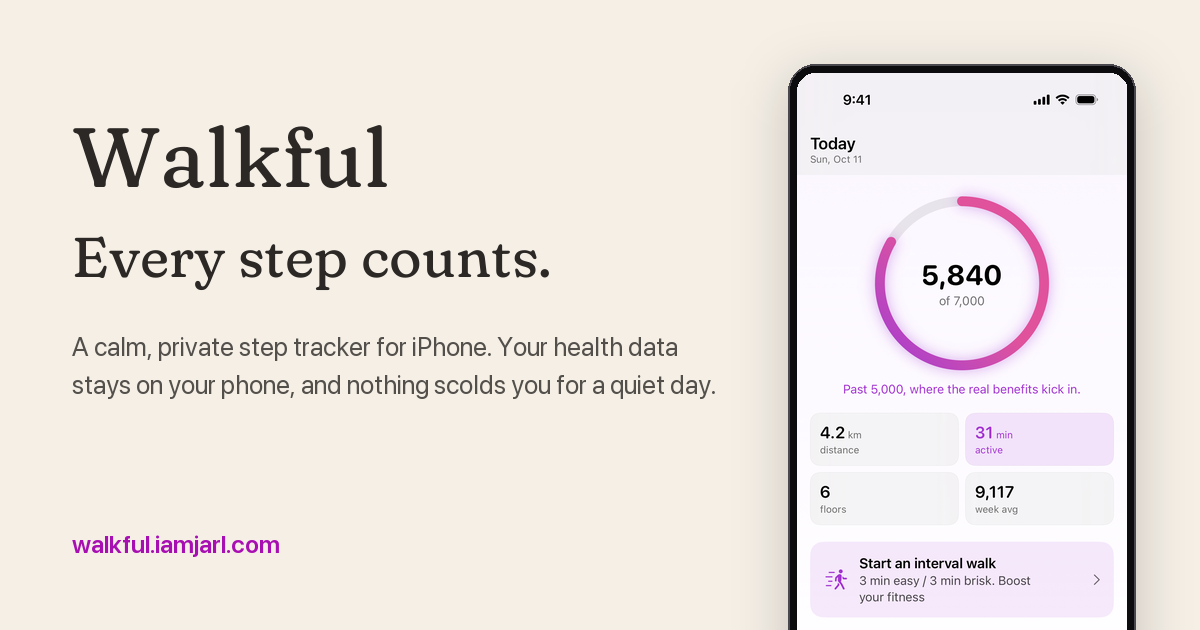
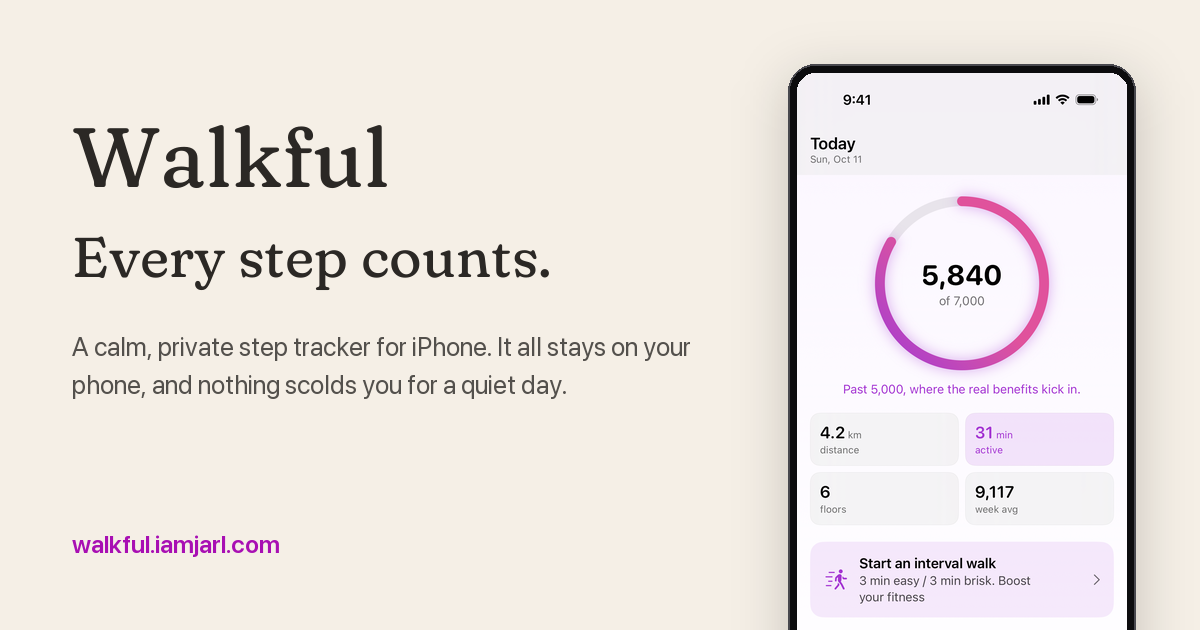
fix(telemetry): Other Diagnostic Data, the built DSN checked, the site apart (#222)
- PrivacyInfo.xcprivacy also declares Other Diagnostic Data (MetricKit and
  hangs), as Sentry's own manifest does and every portfolio app with Sentry
  does. The label table and docs say four types.
- ci_post_xcodebuild.sh reads SentryDSN from the archived app's Info.plist
  and fails the build unless it is a DSN. Checked against a Release build
  whose DSN went through ci_post_clone.sh's $(SLASH) form.
- The site changes move to their own PR (#224), merged on release day, since
  the site deploys on every push to main and the live app sends nothing yet.
  README no longer names the label before it changes.

Changed region(s): [[0.0617, 0.6032, 0.5858, 0.6333], [0.4008, 0.5429, 0.5858, 0.573]]

diff --git a/website/da/index.html b/website/da/index.html
@@ -6,7 +6,7 @@
 <!-- Smart App Banner, from dist/store/walkful.head.html -->
 <meta name="apple-itunes-app" content="app-id=6781303837" />
 <title>Walkful: en rolig, privat skridttæller og gå-app til iPhone</title>
-<meta name="description" content="Walkful viser, hvad dine gåture gør for dit helbred, roligt og helt på din iPhone. Omkring 7.000 skridt, ikke myten om de 10.000. Ingen konti, ingen reklamer, og dine sundhedsdata bliver på telefonen. Gratis, og Pro er én betaling." />
+<meta name="description" content="Walkful viser, hvad dine gåture gør for dit helbred, roligt og helt på din iPhone. Omkring 7.000 skridt, ikke myten om de 10.000. Ingen konti, ingen reklamer, Data indsamles ikke. Gratis, og Pro er én betaling." />
 <link rel="canonical" href="https://walkful.iamjarl.com/da/" />
 <link rel="alternate" hreflang="en" href="https://walkful.iamjarl.com/" />
 <link rel="alternate" hreflang="da" href="https://walkful.iamjarl.com/da/" />
@@ -16,7 +16,7 @@
 <meta property="og:type" content="website" />
 <meta property="og:site_name" content="Walkful" />
 <meta property="og:title" content="Walkful: en rolig, privat skridttæller til iPhone" />
-<meta property="og:description" content="Se, hvad dine gåture gør for dig, roligt og helt på din iPhone. Omkring 7.000 skridt, ikke myten om de 10.000. Ingen konti, ingen reklamer, og dine sundhedsdata bliver på telefonen." />
+<meta property="og:description" content="Se, hvad dine gåture gør for dig, roligt og helt på din iPhone. Omkring 7.000 skridt, ikke myten om de 10.000. Ingen konti, ingen reklamer, Data indsamles ikke." />
 <meta property="og:url" content="https://walkful.iamjarl.com/da/" />
 <meta property="og:image" content="https://walkful.iamjarl.com/og-image.png" />
 <meta property="og:image:width" content="1200" />
@@ -26,7 +26,7 @@
 <meta property="og:locale:alternate" content="en_US" />
 <meta name="twitter:card" content="summary_large_image" />
 <meta name="twitter:title" content="Walkful: en rolig, privat skridttæller til iPhone" />
-<meta name="twitter:description" content="Se, hvad dine gåture gør for dig, roligt og helt på din iPhone. Ingen konti, ingen reklamer, og dine sundhedsdata bliver på telefonen." />
+<meta name="twitter:description" content="Se, hvad dine gåture gør for dig, roligt og helt på din iPhone. Ingen konti, ingen reklamer, Data indsamles ikke." />
 <meta name="twitter:image" content="https://walkful.iamjarl.com/og-image.png" />
 <link rel="icon" type="image/png" sizes="32x32" href="/favicon-32.png" />
 <link rel="apple-touch-icon" href="/apple-touch-icon.png" />
@@ -57,7 +57,7 @@
   "name": "Walkful",
   "applicationCategory": "HealthApplication",
   "operatingSystem": "iOS 18 eller nyere",
-  "description": "En rolig, privat skridttæller og gå-app til iPhone. Den læser dine skridt fra Apple Health og viser, hvad de betyder for dit helbred, bygget på omkring 7.000 skridt om dagen frem for myten om de 10.000. Sundhedsdata bliver på din iPhone: ingen konti, ingen reklamer. Gratis at hente, og Walkful Pro er et engangskøb.",
+  "description": "En rolig, privat skridttæller og gå-app til iPhone. Den læser dine skridt fra Apple Health og viser, hvad de betyder for dit helbred, bygget på omkring 7.000 skridt om dagen frem for myten om de 10.000. Alt bliver på din iPhone: ingen konti, ingen servere, ingen reklamer. Gratis at hente, og Walkful Pro er et engangskøb.",
   "url": "https://walkful.iamjarl.com/da/",
   "downloadUrl": "https://apps.apple.com/app/id6781303837",
   "inLanguage": "da",
@@ -98,7 +98,7 @@
     { "@type": "Question", "name": "Kan jeg dele Walkful Pro med min familie?",
       "acceptedAnswer": { "@type": "Answer", "text": "Ja. Walkful Pro har Familiedeling slået til, så ét køb dækker alle i din familiedelingsgruppe. Hver af dem låser Pro op på deres egen iPhone med deres egen Apple-konto, og deres skridt bliver på deres egen telefon, ligesom dine." } },
     { "@type": "Question", "name": "Indsamler eller sælger Walkful mine data?",
-      "acceptedAnswer": { "@type": "Answer", "text": "Nej. Dine sundhedsdata bliver på din iPhone, og Walkful sælger ingenting. For at opdage, når en version går i stykker, sender appen anonyme crashrapporter og to optællinger af brug, uden ID og uden noget fra Apple Health. Walkful har ingen konti, og dens privatlivsmærkat i App Store siger Data, der ikke er knyttet til dig. Dette website tæller besøg uden cookies, og det er adskilt fra appen." } },
+      "acceptedAnswer": { "@type": "Answer", "text": "Nej. Dine sundhedsdata bliver på din iPhone. Walkful har ingen konti, ingen servere og ingen sporing fra tredjeparter, og dens privatlivsmærkat i App Store er Data indsamles ikke. Dette website tæller besøg uden cookies, og det er adskilt fra appen." } },
     { "@type": "Question", "name": "Hvordan virker de blide påmindelser?",
       "acceptedAnswer": { "@type": "Answer", "text": "Slår du dem til, lader iOS af og til Walkful kigge på dine seneste skridt i baggrunden. Har du siddet stille et stykke tid inden for de timer, du har valgt, og er du ikke blevet mindet om det for nylig, får du én blid notifikation. Det er iOS, der bestemmer, hvornår de tjek kører, så en påmindelse kan komme sent eller slet ikke, og der kommer højst et par stykker om dagen." } }
   ]
@@ -125,7 +125,7 @@
     <div class="ij-container ij-hero__inner">
       <div class="ij-hero__text">
         <h1 class="ij-display">Hvert skridt tæller.</h1>
-        <p class="ij-lede">En rolig, privat måde at se, hvad dine gåture gør for dig. Dine sundhedsdata bliver på din iPhone, og intet skælder dig ud for en stille dag.</p>
+        <p class="ij-lede">En rolig, privat måde at se, hvad dine gåture gør for dig. Det hele bliver på din iPhone, og intet skælder dig ud for en stille dag.</p>
         <!-- dist/store/walkful.da.black.html (v1.32.2, generated, do not edit) -->
         <div class="ij-store" data-ij-store="walkful" data-ij-store-locale="da">
           <a class="ij-store-badge" href="https://apps.apple.com/app/id6781303837?pt=128512007&amp;ct=site&amp;mt=8" data-umami-event="store-click" data-umami-event-store="app-store" data-umami-event-placement="hero" data-umami-event-locale="da">
@@ -237,9 +237,9 @@
     <div class="ij-container ij-stack">
       <h2 class="ij-headline" id="privacy-h">Dit eget, og betalt én gang.</h2>
       <div class="ij-assurances">
-        <div class="ij-assurance"><h3 class="ij-title">Dine sundhedsdata bliver på din iPhone</h3><p>Walkful læser dine skridt fra Apple Health og regner det hele ud på telefonen. Der er ingen konti. Kun anonyme crashrapporter og to optællinger af brug bliver sendt, uden ID og uden noget fra Apple Health. <a href="/privacy.html" hreflang="en">Privatlivspolitikken (på engelsk)</a> har detaljerne.</p></div>
+        <div class="ij-assurance"><h3 class="ij-title">Intet forlader din iPhone</h3><p>Walkful læser dine skridt fra Apple Health og regner det hele ud på telefonen. Der er ingen konti og ingen servere at sende noget til. <a href="/privacy.html" hreflang="en">Privatlivspolitikken (på engelsk)</a> har detaljerne.</p></div>
         <div class="ij-assurance"><h3 class="ij-title">Gratis at prøve. Pro er én betaling</h3><p>Den gratis app dækker din dag, din uge, widgets og påmindelser. Pro tilføjer indsigter, intervalgang-coachen og CSV-eksport for én betaling, og Familiedeling dækker hele husstanden.</p></div>
-        <div class="ij-assurance ij-assurance--label"><h3 class="ij-title">Data, der ikke er knyttet til dig</h3><p>App Stores privatlivsmærkat for Walkful: anonym diagnostik og optællinger af brug, aldrig knyttet til dig eller brugt til at spore dig.</p></div>
+        <div class="ij-assurance ij-assurance--label"><h3 class="ij-title">Data indsamles ikke</h3><p>App Stores privatlivsmærkat for Walkful, som Apple viser den.</p></div>
       </div>
     </div>
   </section>
@@ -248,7 +248,7 @@
   <section class="ij-section" aria-label="En note fra udvikleren">
     <div class="ij-container">
       <div class="ij-maker">
-        <p>Jeg byggede Walkful, fordi de skridttællere, jeg prøvede, ville have mine data, et abonnement eller min dårlige samvittighed over en glemt dag. Jeg ville have noget, der viste, hvad mine gåture gjorde for mig, og så lod mig være i fred. Så Walkful læser Apple Health på din iPhone, beholder dine sundhedsdata dér og beder om én betaling, hvis du vil have mere. En stille dag er helt i orden.</p>
+        <p>Jeg byggede Walkful, fordi de skridttællere, jeg prøvede, ville have mine data, et abonnement eller min dårlige samvittighed over en glemt dag. Jeg ville have noget, der viste, hvad mine gåture gjorde for mig, og så lod mig være i fred. Så Walkful læser Apple Health på din iPhone, beholder det hele dér og beder om én betaling, hvis du vil have mere. En stille dag er helt i orden.</p>
         <p class="ij-maker__sign">Jarl</p>
       </div>
     </div>
@@ -271,7 +271,7 @@
         <details><summary>Kan jeg dele Walkful Pro med min familie?</summary>
           <p>Ja. Walkful Pro har Familiedeling slået til, så ét køb dækker alle i din familiedelingsgruppe. Hver af dem låser Pro op på deres egen iPhone med deres egen Apple-konto, og deres skridt bliver på deres egen telefon, ligesom dine.</p></details>
         <details><summary>Indsamler eller sælger Walkful mine data?</summary>
-          <p>Nej. Dine sundhedsdata bliver på din iPhone, og Walkful sælger ingenting. For at opdage, når en version går i stykker, sender appen anonyme crashrapporter og to optællinger af brug, uden ID og uden noget fra Apple Health. Walkful har ingen konti, og dens privatlivsmærkat i App Store siger Data, der ikke er knyttet til dig. Dette website tæller besøg uden cookies, og det er adskilt fra appen.</p></details>
+          <p>Nej. Dine sundhedsdata bliver på din iPhone. Walkful har ingen konti, ingen servere og ingen sporing fra tredjeparter, og dens privatlivsmærkat i App Store er Data indsamles ikke. Dette website tæller besøg uden cookies, og det er adskilt fra appen.</p></details>
         <details><summary>Hvordan virker de blide påmindelser?</summary>
           <p>Slår du dem til, lader iOS af og til Walkful kigge på dine seneste skridt i baggrunden. Har du siddet stille et stykke tid inden for de timer, du har valgt, og er du ikke blevet mindet om det for nylig, får du én blid notifikation. Det er iOS, der bestemmer, hvornår de tjek kører, så en påmindelse kan komme sent eller slet ikke, og der kommer højst et par stykker om dagen.</p></details>
       </div>

diff --git a/website/index.html b/website/index.html
@@ -6,7 +6,7 @@
 <!-- Smart App Banner, from dist/store/walkful.head.html -->
 <meta name="apple-itunes-app" content="app-id=6781303837" />
 <title>Walkful: a calm, private step &amp; walking tracker for iPhone</title>
-<meta name="description" content="Walkful shows what your walking does for your health, calmly and entirely on your iPhone. About 7,000 steps, not the 10,000 myth. No accounts, no ads, and your health data stays on the phone. Free, with Pro as one payment." />
+<meta name="description" content="Walkful shows what your walking does for your health, calmly and entirely on your iPhone. About 7,000 steps, not the 10,000 myth. No accounts, no ads, Data Not Collected. Free, with Pro as one payment." />
 <link rel="canonical" href="https://walkful.iamjarl.com/" />
 <link rel="alternate" hreflang="en" href="https://walkful.iamjarl.com/" />
 <link rel="alternate" hreflang="da" href="https://walkful.iamjarl.com/da/" />
@@ -16,7 +16,7 @@
 <meta property="og:type" content="website" />
 <meta property="og:site_name" content="Walkful" />
 <meta property="og:title" content="Walkful: a calm, private step &amp; walking tracker for iPhone" />
-<meta property="og:description" content="See what your walking does for you, calmly and entirely on your iPhone. About 7,000 steps, not the 10,000 myth. No accounts, no ads, and your health data stays on the phone." />
+<meta property="og:description" content="See what your walking does for you, calmly and entirely on your iPhone. About 7,000 steps, not the 10,000 myth. No accounts, no ads, Data Not Collected." />
 <meta property="og:url" content="https://walkful.iamjarl.com/" />
 <meta property="og:image" content="https://walkful.iamjarl.com/og-image.png" />
 <meta property="og:image:width" content="1200" />
@@ -26,7 +26,7 @@
 <meta property="og:locale:alternate" content="da_DK" />
 <meta name="twitter:card" content="summary_large_image" />
 <meta name="twitter:title" content="Walkful: a calm, private step &amp; walking tracker" />
-<meta name="twitter:description" content="See what your walking does for you, calmly and entirely on your iPhone. No accounts, no ads, and your health data stays on the phone." />
+<meta name="twitter:description" content="See what your walking does for you, calmly and entirely on your iPhone. No accounts, no ads, Data Not Collected." />
 <meta name="twitter:image" content="https://walkful.iamjarl.com/og-image.png" />
 <link rel="icon" type="image/png" sizes="32x32" href="/favicon-32.png" />
 <link rel="apple-touch-icon" href="/apple-touch-icon.png" />
@@ -57,7 +57,7 @@
   "name": "Walkful",
   "applicationCategory": "HealthApplication",
   "operatingSystem": "iOS 18 or later",
-  "description": "A calm, private step and walking tracker for iPhone. It reads your steps from Apple Health and shows what they mean for your health, built around about 7,000 steps a day rather than the 10,000 myth. Health data stays on the iPhone: no accounts, no ads. Free to download, with Walkful Pro as a one-time purchase.",
+  "description": "A calm, private step and walking tracker for iPhone. It reads your steps from Apple Health and shows what they mean for your health, built around about 7,000 steps a day rather than the 10,000 myth. Everything stays on the iPhone: no accounts, no servers, no ads. Free to download, with Walkful Pro as a one-time purchase.",
   "url": "https://walkful.iamjarl.com/",
   "downloadUrl": "https://apps.apple.com/app/id6781303837",
   "inLanguage": ["en", "da"],
@@ -76,7 +76,7 @@
     "Walkful Pro: a guided interval-walking coach on iPhone",
     "Walkful Pro: CSV export of your step history",
     "English and Danish",
-    "Health data stays on the iPhone; only anonymous crash reports and two usage counts are sent"
+    "Everything stays on the iPhone"
   ],
   "publisher": { "@id": "https://iamjarl.com/#org" }
 }
@@ -108,7 +108,7 @@
     { "@type": "Question", "name": "Can I share Walkful Pro with my family?",
       "acceptedAnswer": { "@type": "Answer", "text": "Yes. Walkful Pro has Family Sharing turned on, so one purchase covers everyone in your Family Sharing group. Each of them unlocks Pro on their own iPhone with their own Apple Account, and their steps stay on their own phone, just like yours." } },
     { "@type": "Question", "name": "Does Walkful collect or sell my data?",
-      "acceptedAnswer": { "@type": "Answer", "text": "No. Your health data stays on your iPhone, and Walkful sells nothing. To learn when a release breaks, the app sends anonymous crash reports and two usage counts, with no ID and nothing from Apple Health. Walkful has no accounts, and its App Store privacy label says Data Not Linked to You. This website counts visits without cookies, which is separate from the app." } },
+      "acceptedAnswer": { "@type": "Answer", "text": "No. Your health data stays on your iPhone. Walkful has no accounts, no servers and no third-party tracking, and its App Store privacy label is Data Not Collected. This website counts visits without cookies, which is separate from the app." } },
     { "@type": "Question", "name": "How do the gentle reminders work?",
       "acceptedAnswer": { "@type": "Answer", "text": "If you turn them on, iOS lets Walkful look at your recent steps now and then in the background. When you have been still for a while inside the hours you chose, and it has not reminded you lately, you get one gentle notification. iOS decides when those checks run, so a reminder can come late or not at all, and there are at most a couple a day." } }
   ]
@@ -135,7 +135,7 @@
     <div class="ij-container ij-hero__inner">
       <div class="ij-hero__text">
         <h1 class="ij-display">Every step counts.</h1>
-        <p class="ij-lede">A calm, private way to see what your walking does for you. Your health data stays on your iPhone, and nothing scolds you for a quiet day.</p>
+        <p class="ij-lede">A calm, private way to see what your walking does for you. It all stays on your iPhone, and nothing scolds you for a quiet day.</p>
         <!-- dist/store/walkful.en.black.html (v1.32.2, generated, do not edit) -->
         <div class="ij-store" data-ij-store="walkful" data-ij-store-locale="en">
           <a class="ij-store-badge" href="https://apps.apple.com/app/id6781303837?pt=128512007&amp;ct=site&amp;mt=8" data-umami-event="store-click" data-umami-event-store="app-store" data-umami-event-placement="hero" data-umami-event-locale="en">
@@ -247,9 +247,9 @@
     <div class="ij-container ij-stack">
       <h2 class="ij-headline" id="privacy-h">Yours, and paid for once.</h2>
       <div class="ij-assurances">
-        <div class="ij-assurance"><h3 class="ij-title">Your health data stays on your iPhone</h3><p>Walkful reads your steps from Apple Health and works everything out on the phone. There are no accounts. Only anonymous crash reports and two usage counts are sent, with no ID and nothing from Apple Health. <a href="/privacy.html">The privacy policy</a> has the details.</p></div>
+        <div class="ij-assurance"><h3 class="ij-title">Nothing leaves your iPhone</h3><p>Walkful reads your steps from Apple Health and works everything out on the phone. There are no accounts and no servers to send anything to. <a href="/privacy.html">The privacy policy</a> has the details.</p></div>
         <div class="ij-assurance"><h3 class="ij-title">Free to try. Pro is one payment</h3><p>The free app covers your day, your week, the widgets and the reminders. Pro adds insights, the interval coach and CSV export for one payment, and Family Sharing covers your household.</p></div>
-        <div class="ij-assurance ij-assurance--label"><h3 class="ij-title">Data Not Linked to You</h3><p>The App Store's privacy label for Walkful: anonymous diagnostics and usage counts, never linked to you or used to track you.</p></div>
+        <div class="ij-assurance ij-assurance--label"><h3 class="ij-title">Data Not Collected</h3><p>The App Store's privacy label for Walkful, as Apple shows it.</p></div>
       </div>
     </div>
   </section>
@@ -258,7 +258,7 @@
   <section class="ij-section" aria-label="A note from the maker">
     <div class="ij-container">
       <div class="ij-maker">
-        <p>I built Walkful because the step trackers I tried wanted my data, a subscription, or my guilt over a missed day. I wanted something that showed what my walking was doing for me and then left me alone. So Walkful reads Apple Health on your iPhone, keeps your health data there, and asks for one payment if you want more. A quiet day is fine.</p>
+        <p>I built Walkful because the step trackers I tried wanted my data, a subscription, or my guilt over a missed day. I wanted something that showed what my walking was doing for me and then left me alone. So Walkful reads Apple Health on your iPhone, keeps everything there, and asks for one payment if you want more. A quiet day is fine.</p>
         <p class="ij-maker__sign">Jarl</p>
       </div>
     </div>
@@ -281,7 +281,7 @@
         <details><summary>Can I share Walkful Pro with my family?</summary>
           <p>Yes. Walkful Pro has Family Sharing turned on, so one purchase covers everyone in your Family Sharing group. Each of them unlocks Pro on their own iPhone with their own Apple Account, and their steps stay on their own phone, just like yours.</p></details>
         <details><summary>Does Walkful collect or sell my data?</summary>
-          <p>No. Your health data stays on your iPhone, and Walkful sells nothing. To learn when a release breaks, the app sends anonymous crash reports and two usage counts, with no ID and nothing from Apple Health. Walkful has no accounts, and its App Store privacy label says Data Not Linked to You. This website counts visits without cookies, which is separate from the app.</p></details>
+          <p>No. Your health data stays on your iPhone. Walkful has no accounts, no servers and no third-party tracking, and its App Store privacy label is Data Not Collected. This website counts visits without cookies, which is separate from the app.</p></details>
         <details><summary>How do the gentle reminders work?</summary>
           <p>If you turn them on, iOS lets Walkful look at your recent steps now and then in the background. When you have been still for a while inside the hours you chose, and it has not reminded you lately, you get one gentle notification. iOS decides when those checks run, so a reminder can come late or not at all, and there are at most a couple a day.</p></details>
       </div>

diff --git a/website/privacy.html b/website/privacy.html
@@ -5,7 +5,7 @@
 <meta name="viewport" content="width=device-width, initial-scale=1" />
 <meta name="apple-itunes-app" content="app-id=6781303837" />
 <title>Privacy Policy · Walkful</title>
-<meta name="description" content="Walkful's privacy policy. Your health data never leaves your iPhone. The app sends anonymous crash reports and two usage counts, with no ID and no tracking." />
+<meta name="description" content="Walkful's privacy policy. Walkful processes all data on your device and collects nothing. No accounts, no servers, no tracking, no data sharing." />
 <link rel="canonical" href="https://walkful.iamjarl.com/privacy.html" />
 <link rel="icon" type="image/png" sizes="32x32" href="/favicon-32.png" />
 <link rel="apple-touch-icon" href="/apple-touch-icon.png" />
@@ -20,7 +20,7 @@
 <meta name="theme-color" content="#F5EFE6" />
 <meta property="og:type" content="article" />
 <meta property="og:title" content="Privacy Policy · Walkful" />
-<meta property="og:description" content="Your health data never leaves your iPhone. Walkful sends only anonymous crash reports and two usage counts." />
+<meta property="og:description" content="Walkful collects nothing. All data stays on your device." />
 <meta property="og:url" content="https://walkful.iamjarl.com/privacy.html" />
 <meta property="og:image" content="https://walkful.iamjarl.com/og-image.png" />
 <meta property="og:image:width" content="1200" />
@@ -57,30 +57,27 @@
 <div class="wrap">
   <a class="logo" href="/">Walkful</a>
   <h1>Privacy Policy</h1>
-  <p class="muted">Last updated: November 2026</p>
+  <p class="muted">Last updated: 18 June 2026</p>
 
-  <p class="badge">Summary: your health data never leaves your iPhone. Walkful sends anonymous crash reports and two usage counts, with no ID.</p>
+  <p class="badge">Summary: Walkful collects nothing. All data stays on your device.</p>
 
   <h2>The short version</h2>
-  <p>Walkful has no user accounts and no advertising. Your health and activity data is read from Apple Health and processed entirely on your iPhone. It is never sent to us or anyone else. To learn when a release breaks, the app sends anonymous crash and performance reports, and counts how often two things happen, to Sentry. None of it carries an ID, and none of it comes from Apple Health.</p>
+  <p>Walkful is private by design. It has no servers, no user accounts, and no third-party analytics or advertising SDKs. Your health and activity data is read from Apple Health, processed entirely on your iPhone, and is never transmitted to us or anyone else. Walkful's App Store privacy label is therefore "Data Not Collected".</p>
 
   <h2>Health data</h2>
-  <p>With your explicit permission, Walkful reads activity data from Apple Health (such as steps, walking distance, flights climbed, active minutes and resting heart rate) to show your progress and insights. This data is used only on your device. It is never sent anywhere, never put in a crash report or a count, never shared and never sold. Walkful does not write any data back to Apple Health. You can revoke access at any time in the iOS Health app or Settings.</p>
+  <p>With your explicit permission, Walkful reads activity data from Apple Health (such as steps, walking distance, flights climbed, active minutes and resting heart rate) to display your progress and insights. This data is used only on your device and is never stored on a server, shared, or sold. Walkful does not write any data back to Apple Health. You can revoke access at any time in the iOS Health app or Settings.</p>
 
-  <h2>What the app sends</h2>
-  <p><strong>Crash and performance reports.</strong> When the app crashes or freezes, it sends a report to Sentry, a crash reporting service. A report holds the technical details of the fault and coarse facts about the phone: the app version, iOS version, device model and language. Apple's MetricKit diagnostics, such as hangs and disk writes, go the same way.</p>
-  <p><strong>Two usage counts.</strong> The app counts when one of its main screens is opened (Today, Insights, Settings, the interval coach or Walkful Pro) and when you turn on move reminders. A count says only that it happened, with the same coarse facts.</p>
-  <p><strong>What is never sent:</strong> anything from Apple Health, your goal, your settings, your name or anything you type, a screenshot, or any ID. Every install reports as the same anonymous user, so nothing ties a report to you or to your phone, and Walkful keeps nothing on your phone just to measure. Sentry stores no IP addresses for Walkful.</p>
-  <p>In the App Store this is shown as Diagnostics (crash data, performance data) and Usage Data (product interaction), all not linked to you and not used for tracking.</p>
+  <h2>Data we collect</h2>
+  <p>None. Walkful does not collect personal data, does not track you across apps or websites, and contains no advertising. Your settings (such as your daily goal) are stored locally on your device.</p>
 
-  <h2>Data stored on your device</h2>
-  <p>Your settings, such as your daily goal, are stored on your iPhone and nowhere else.</p>
+  <h2>Diagnostics</h2>
+  <p>If you have enabled Apple's standard "Share with App Developers" setting, iOS may send Apple aggregated crash and performance reports via Apple's MetricKit framework. This is handled by Apple under your existing system-level consent; Walkful operates no analytics service of its own.</p>
 
   <h2>This website</h2>
-  <p>This marketing website (walkful.iamjarl.com) uses Umami, a privacy-friendly, cookieless analytics tool, to count anonymous page views. It sets no cookies and does not collect personal data or build profiles.</p>
+  <p>This marketing website (walkful.iamjarl.com) uses Umami, a privacy-friendly, cookieless analytics tool, to count anonymous page views. It sets no cookies and does not collect personal data or build profiles. It is separate from the app, which still collects nothing.</p>
 
   <h2>Children</h2>
-  <p>Walkful collects no personal data from anyone, including children. The anonymous reports above carry no ID and nothing about the person using the app.</p>
+  <p>Walkful does not knowingly collect data from anyone, including children, because it collects no data at all.</p>
 
   <h2>Changes</h2>
   <p>If this policy changes, the updated version will be posted on this page with a new date.</p>

diff --git a/website/learn/private-step-tracker.html b/website/learn/private-step-tracker.html
@@ -5,7 +5,7 @@
 <meta name="viewport" content="width=device-width, initial-scale=1" />
 <meta name="apple-itunes-app" content="app-id=6781303837" />
 <title>How to choose a private step tracker · Walkful</title>
-<meta name="description" content="Many free step trackers monetize your health data. Here's how to pick a private one: on-device processing, no account, the App Store privacy label, and one-time pricing over subscriptions." />
+<meta name="description" content="Many free step trackers monetize your health data. Here's how to pick a private one: on-device processing, no account, the App Store 'Data Not Collected' label, and one-time pricing over subscriptions." />
 <link rel="canonical" href="https://walkful.iamjarl.com/learn/private-step-tracker.html" />
 <link rel="icon" type="image/png" sizes="32x32" href="/favicon-32.png" />
 <link rel="apple-touch-icon" href="/apple-touch-icon.png" />
@@ -44,9 +44,9 @@
   "@context": "https://schema.org",
   "@type": "Article",
   "headline": "How to choose a private step tracker",
-  "description": "Many free step trackers monetize your health data. Here's how to pick a private one: on-device processing, no account, the App Store privacy label, and one-time pricing.",
+  "description": "Many free step trackers monetize your health data. Here's how to pick a private one: on-device processing, no account, the App Store 'Data Not Collected' label, and one-time pricing.",
   "datePublished": "2026-06-25",
-  "dateModified": "2026-11-15",
+  "dateModified": "2026-09-13",
   "author": { "@type": "Person", "name": "Jarl", "url": "https://iamjarl.com", "description": "Independent developer; makes Walkful" },
   "publisher": { "@type": "Organization", "name": "IAMJARL", "url": "https://iamjarl.com" },
   "mainEntityOfPage": "https://walkful.iamjarl.com/learn/private-step-tracker.html"
@@ -81,14 +81,14 @@
   <nav class="crumbs"><a href="/">Walkful</a> › <a href="/learn/">Learn</a> › Choosing a private tracker</nav>
 
   <h1>How to choose a private step tracker</h1>
-  <p class="meta">By Jarl · Updated 15 November 2026 · ~4 min read</p>
+  <p class="meta">By Jarl · Updated 13 September 2026 · ~4 min read</p>
 
   <p class="lead">Your daily movement is sensitive data. Here's how to find a step tracker that treats it that way, and what the warning signs look like.</p>
 
   <p>"Free" fitness apps aren't always free. Many fund themselves by collecting your activity and selling it to advertisers or data brokers, or by parking it on their servers behind an account you didn't really need. Step data can reveal where you live, when you sleep, your routines and your health, so it's worth a moment to choose carefully.</p>
 
   <div class="takeaway">
-    <strong>Quick checklist:</strong> look for on-device processing, no required account, an App Store label of "Data Not Collected" or diagnostics that are "Not Linked to You", sensible permissions, and a one-time price rather than a subscription that incentivizes hoarding your data.
+    <strong>Quick checklist:</strong> look for on-device processing, no required account, an App Store "Data Not Collected" label, sensible permissions, and a one-time price rather than a subscription that incentivizes hoarding your data.
   </div>
 
   <h2>1. Where is your data processed?</h2>
@@ -98,7 +98,7 @@
   <p>A login almost always means your data lives on someone else's computer. For a step tracker, you rarely need one. If an app demands an email and password just to count your steps, ask what it's doing with them.</p>
 
   <h2>3. Check the App Store privacy label</h2>
-  <p>Every App Store listing has an "App Privacy" section. The strongest result is <strong>"Data Not Collected"</strong>. The developer declares the app collects nothing at all. Next best is <strong>"Data Not Linked to You"</strong> covering only diagnostics and usage: the app sends crash reports or counts, but nothing that identifies you. "Data Used to Track You" is the opposite signal. It takes ten seconds to check before you install.</p>
+  <p>Every App Store listing has an "App Privacy" section. The strongest result is <strong>"Data Not Collected"</strong>. The developer declares the app collects nothing at all. "Data Used to Track You" is the opposite signal. It takes ten seconds to check before you install.</p>
 
   <h2>4. Look at the permissions it asks for</h2>
   <p>A step tracker needs read access to your activity data. It does not need your contacts, your precise location in the background, or the ability to write to your health record. Over-broad permission requests are a red flag.</p>
@@ -108,7 +108,7 @@
 
   <a class="cta" href="https://apps.apple.com/app/id6781303837?pt=128512007&amp;ct=site&amp;mt=8" data-umami-event="store-click" data-umami-event-store="app-store" data-umami-event-placement="footer" data-umami-event-locale="en">
     <div class="cta-title">Walkful is built this way on purpose</div>
-    <div class="cta-text">No accounts, no ads, and your health data is read from Apple Health and processed on your iPhone, never sent anywhere. The only things that leave the phone are anonymous crash reports and two usage counts, which its App Store label lists as Not Linked to You. One-time purchase, no subscription.</div>
+    <div class="cta-text">No accounts, no servers, no ads, no data collection. Its App Store label is literally "Data Not Collected." Everything is read from Apple Health and processed on your iPhone. One-time purchase, no subscription.</div>
     <span class="cta-go">Get Walkful on the App Store →</span>
   </a>
 

diff --git a/website/da/support.html b/website/da/support.html
@@ -90,7 +90,7 @@
   <p>Walkful Pro er et engangskøb, så der er intet abonnement at opsige. Har du købt Pro før, eller på en anden enhed med den samme Apple-konto, så brug <strong>Gendan køb</strong> på Pro-skærmen. Refundering håndteres af Apple, ikke af os: gå til <a href="https://reportaproblem.apple.com" rel="noopener">reportaproblem.apple.com</a> og log ind med din Apple-konto.</p>
 
   <h2>Spørgsmål om privatliv</h2>
-  <p>Dine sundhedsdata forlader aldrig din iPhone. Walkful har ingen konti og ingen sporing. Appen sender anonyme crashrapporter og to optællinger af brug, uden ID og uden noget fra Apple Health, så intet peger tilbage på dig. Alle detaljerne står i <a href="/privacy.html" hreflang="en">privatlivspolitikken (på engelsk)</a>. Der er ingen konto at slette og intet vi kan slå op; sletter du appen, er alt væk.</p>
+  <p>Walkful indsamler ingenting. Ingen konti, ingen servere, ingen sporing. Alle detaljerne står i <a href="/privacy.html" hreflang="en">privatlivspolitikken (på engelsk)</a>. Fordi dine data aldrig forlader din enhed, er der ingen konto at slette og intet vi kan slå op; sletter du appen, er alt væk.</p>
 
   <h2>Ønsker og fejl</h2>
   <p>Walkful er open source. Er du teknisk anlagt, kan du se kendte fejl eller melde nye direkte på <a href="https://github.com/JarlLyng/walkful/issues" rel="noopener">GitHub</a>. Ellers virker en mail lige så godt.</p>

diff --git a/website/support.html b/website/support.html
@@ -90,7 +90,7 @@
   <p>Walkful Pro is a one-time purchase, so there is no subscription to cancel. If you've bought Pro before (or on another device with the same Apple Account), use <strong>Restore purchase</strong> on the Pro screen. Refunds are handled by Apple, not by us: visit <a href="https://reportaproblem.apple.com" rel="noopener">reportaproblem.apple.com</a> and sign in with your Apple Account.</p>
 
   <h2>Privacy questions</h2>
-  <p>Your health data never leaves your iPhone. Walkful has no accounts and no tracking. It sends anonymous crash reports and two usage counts, with no ID and nothing from Apple Health, so there is nothing that points back to you. The full details are in the <a href="/privacy.html">privacy policy</a>. There is no account to delete and nothing for us to look up; deleting the app deletes everything.</p>
+  <p>Walkful collects nothing. No accounts, no servers, no tracking. The full details are in the <a href="/privacy.html">privacy policy</a>. Since your data never leaves your device, there is no account to delete and nothing for us to look up; deleting the app deletes everything.</p>
 
   <h2>Feature requests and bugs</h2>
   <p>Walkful is open source. If you're technically inclined, you can browse known issues or report bugs directly on <a href="https://github.com/JarlLyng/walkful/issues" rel="noopener">GitHub</a>. Otherwise email works just as well.</p>

diff --git a/website/learn/how-many-steps-per-day.html b/website/learn/how-many-steps-per-day.html
@@ -110,7 +110,7 @@
 
   <a class="cta" href="https://apps.apple.com/app/id6781303837?pt=128512007&amp;ct=site&amp;mt=8" data-umami-event="store-click" data-umami-event-store="app-store" data-umami-event-placement="footer" data-umami-event-locale="en">
     <div class="cta-title">See your steps with meaning</div>
-    <div class="cta-text">Walkful turns your Apple Health steps into calm daily progress, built around this 7,000-step research instead of the 10,000 myth. Private by design, so your health data stays on your iPhone. One-time purchase, no subscription.</div>
+    <div class="cta-text">Walkful turns your Apple Health steps into calm daily progress, built around this 7,000-step research instead of the 10,000 myth. Private by design, so everything stays on your iPhone. One-time purchase, no subscription.</div>
     <span class="cta-go">Get Walkful on the App Store →</span>
   </a>
 

diff --git a/website/learn/index.html b/website/learn/index.html
@@ -74,7 +74,7 @@
 
   <a class="cta" href="https://apps.apple.com/app/id6781303837?pt=128512007&amp;ct=site&amp;mt=8" data-umami-event="store-click" data-umami-event-store="app-store" data-umami-event-placement="footer" data-umami-event-locale="en">
     <div class="cta-title">Walkful: every step counts</div>
-    <div class="cta-text">A calm, private step tracker for iPhone, built on this research. Your health data stays on your device. One-time purchase, no subscription, no ads.</div>
+    <div class="cta-text">A calm, private step tracker for iPhone, built on this research. Everything stays on your device. One-time purchase, no subscription, no ads.</div>
     <span class="cta-go">Get Walkful on the App Store →</span>
   </a>
 

diff --git a/appstore/social/make_card.py b/appstore/social/make_card.py
@@ -122,7 +122,7 @@ d.text((M, 222), "Every step counts.", font=fraunces(56), fill=CHARCOAL)
 
 facts_f = font(26, "Regular")
 y = 330
-for line in wrap(d, "A calm, private step tracker for iPhone. Your health data stays on your phone, and nothing scolds you for a quiet day.", facts_f, col_w):
+for line in wrap(d, "A calm, private step tracker for iPhone. It all stays on your phone, and nothing scolds you for a quiet day.", facts_f, col_w):
     d.text((M, y), line, font=facts_f, fill=SECONDARY)
     y += 38
 

diff --git a/docs/SENTRY.md b/docs/SENTRY.md
@@ -28,9 +28,10 @@ Nothing else. In particular:
   the day's steps, and an automatic breadcrumb can carry a control's on-screen text.
 - **No performance traces** (`tracesSampleRate = 0`).
 
-The App Store label for this is Diagnostics (Crash Data, Performance Data) and Usage Data
-(Product Interaction), all "Data Not Linked to You" and not used for tracking. The same three
-types are declared in [`Walkful/PrivacyInfo.xcprivacy`](../Walkful/PrivacyInfo.xcprivacy).
+The App Store label for this is Diagnostics (Crash Data, Performance Data, Other Diagnostic
+Data) and Usage Data (Product Interaction), all "Data Not Linked to You" and not used for
+tracking. Other Diagnostic Data is MetricKit's diagnostics and hangs. The same four types are
+declared in [`Walkful/PrivacyInfo.xcprivacy`](../Walkful/PrivacyInfo.xcprivacy).
 
 ## The recipe
 
@@ -74,6 +75,12 @@ Info.plist as `SentryDSN`, where `Telemetry` reads it.
 `SENTRY_DSN` is unset, isn't shaped like `https://<key>@<host>/<project>`, or didn't make it into
 `Config/Sentry.local.xcconfig` with the `$(SLASH)` form. Otherwise a release would ship with crash
 reports silently off. Builds and tests without an archive still run without it.
+
+**And the value the archive actually holds.** After the archive, `ci_scripts/ci_post_xcodebuild.sh`
+reads `SentryDSN` from the built app's Info.plist inside the archive and fails the build unless it
+is shaped `https://<key>@<host>/<project>`. That is the check that counts: it catches a DSN lost
+anywhere between the secret and the binary, however Xcode Cloud happens to build. A failed
+post-build script fails the build, so nothing goes on to TestFlight.
 
 ## Symbols
 
@@ -140,7 +147,8 @@ Any change to telemetry goes through `Telemetry.swift` and this file. A new kind
 needs, in the same pull request:
 
 - `Walkful/PrivacyInfo.xcprivacy`,
-- the privacy policy (`website/privacy.html`),
+- the privacy policy (`website/privacy.html`), in a separate pull request merged on the day
+  the release goes live, since the site deploys on every push to main,
 - the in-app privacy caption in Settings,
 - and the App Store privacy label, changed on the day the release goes out
   (`docs/app-store-release.md`).

diff --git a/README.md b/README.md
@@ -22,7 +22,7 @@ Calm, private step tracker
   <img src="appstore/1.1.3/en/iphone-6.9-2.png" alt="One payment. No subscription, no ads, no accounts. The Insights tab, offering a year of trends and a consistency heatmap as a one-time Pro unlock." width="240">
 </p>
 
-Every step counts. Walkful reads the steps your iPhone and Apple Watch already record in Apple Health, and shows what the day's walking does for your health, measured against about 7,000 steps rather than the 10,000 myth. It's for anyone who wants to walk a little more at their own pace, with no leaderboards and no pressure. The app is free, widgets and gentle move reminders included, and Walkful Pro is a one-time unlock with no subscription that adds Insights, the interval-walking coach and CSV export. Your health data stays on your iPhone: there's no account, no server of its own and no ads. The app sends only anonymous crash reports and two usage counts, and the App Store privacy label reads Data Not Linked to You.
+Every step counts. Walkful reads the steps your iPhone and Apple Watch already record in Apple Health, and shows what the day's walking does for your health, measured against about 7,000 steps rather than the 10,000 myth. It's for anyone who wants to walk a little more at their own pace, with no leaderboards and no pressure. The app is free, widgets and gentle move reminders included, and Walkful Pro is a one-time unlock with no subscription that adds Insights, the interval-walking coach and CSV export. Your health data stays on your iPhone: there's no account, no server of its own and no ads. The app sends only anonymous crash reports and two usage counts, never linked to you.
 
 ## For developers
 

diff --git a/CHANGELOG.md b/CHANGELOG.md
@@ -7,7 +7,7 @@ All notable changes to Walkful are documented here. Format based on
 
 ### Added
 - **Anonymous crash reports, with Sentry.** When the app crashes or hangs, a report goes to Sentry so the bug can be found and fixed, along with Apple's daily performance diagnostics and two counts: which main screen was opened, and that move reminders were turned on. Every install reports as the same anonymous user, with no installation ID, device ID or IP address, and nothing from Apple Health goes into any of it. Screenshots, session replay and automatic breadcrumbs are off. What is sent and how it was checked is in `docs/SENTRY.md` (#222).
-- **A privacy manifest** (`PrivacyInfo.xcprivacy`) declaring exactly that: crash and performance data and product interaction, none linked to you, none used for tracking.
+- **A privacy manifest** (`PrivacyInfo.xcprivacy`) declaring exactly that: crash data, performance data, other diagnostic data and product interaction, none linked to you, none used for tracking.
 
 ### Changed
 - **The privacy wording everywhere now says what is true:** your health data never leaves your device, and the app sends anonymous crash reports and two usage counts. That covers Settings, onboarding, the paywall, the Health permission text, the privacy policy, the site and the store copy. The App Store privacy label moves from Data Not Collected to Data Not Linked to You with the release.
